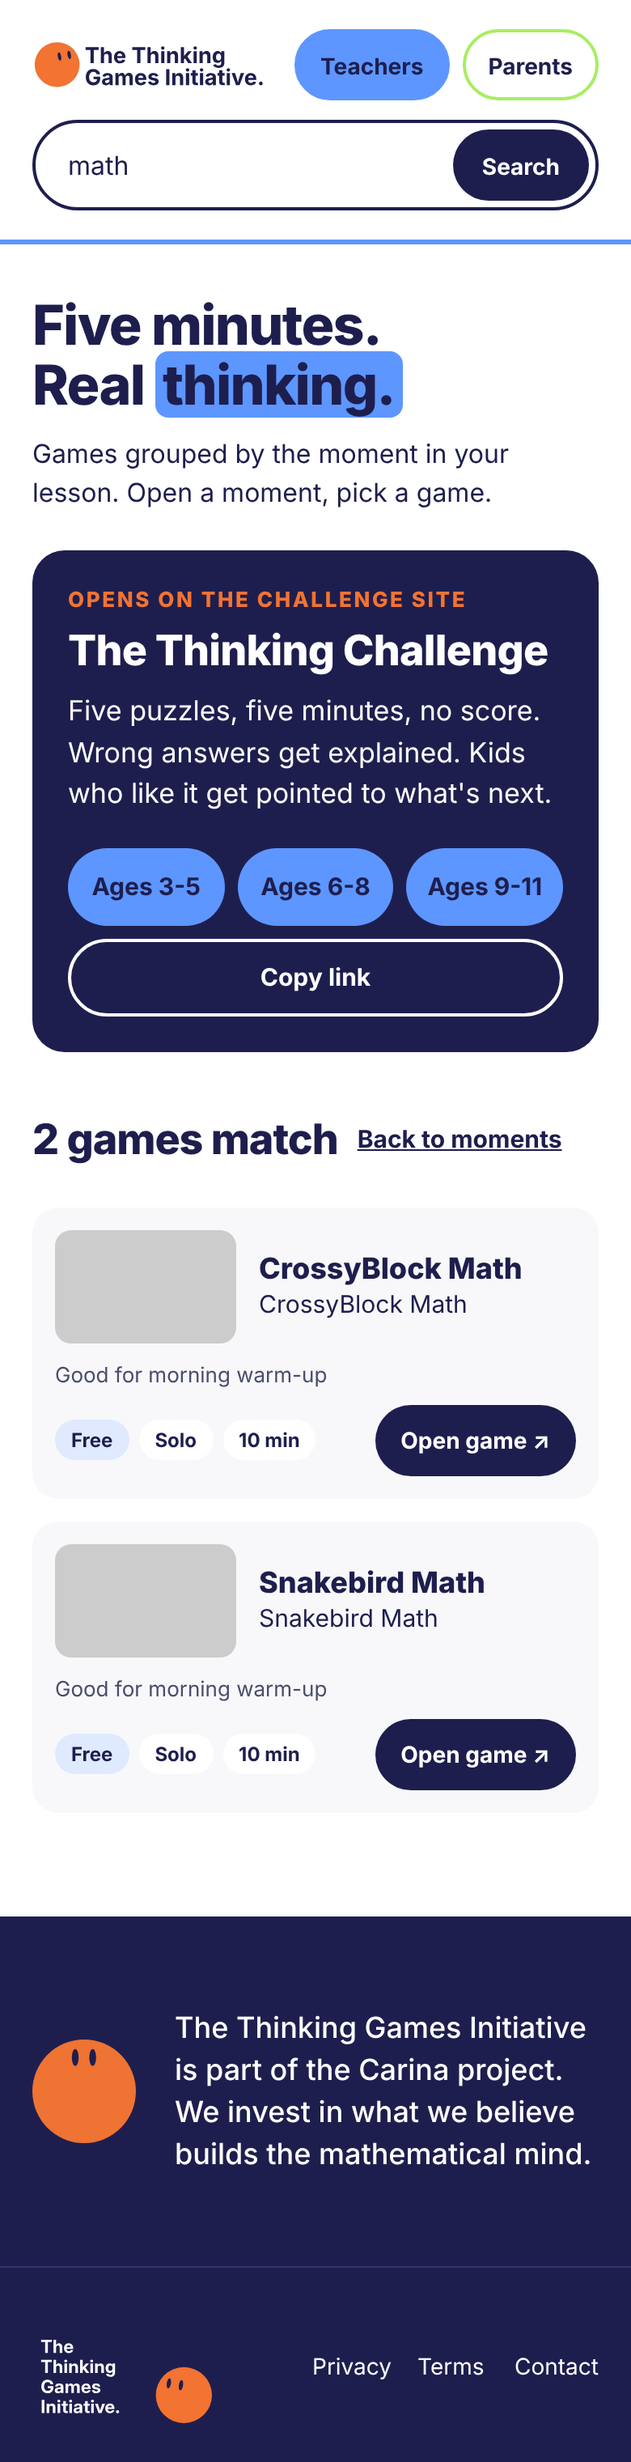
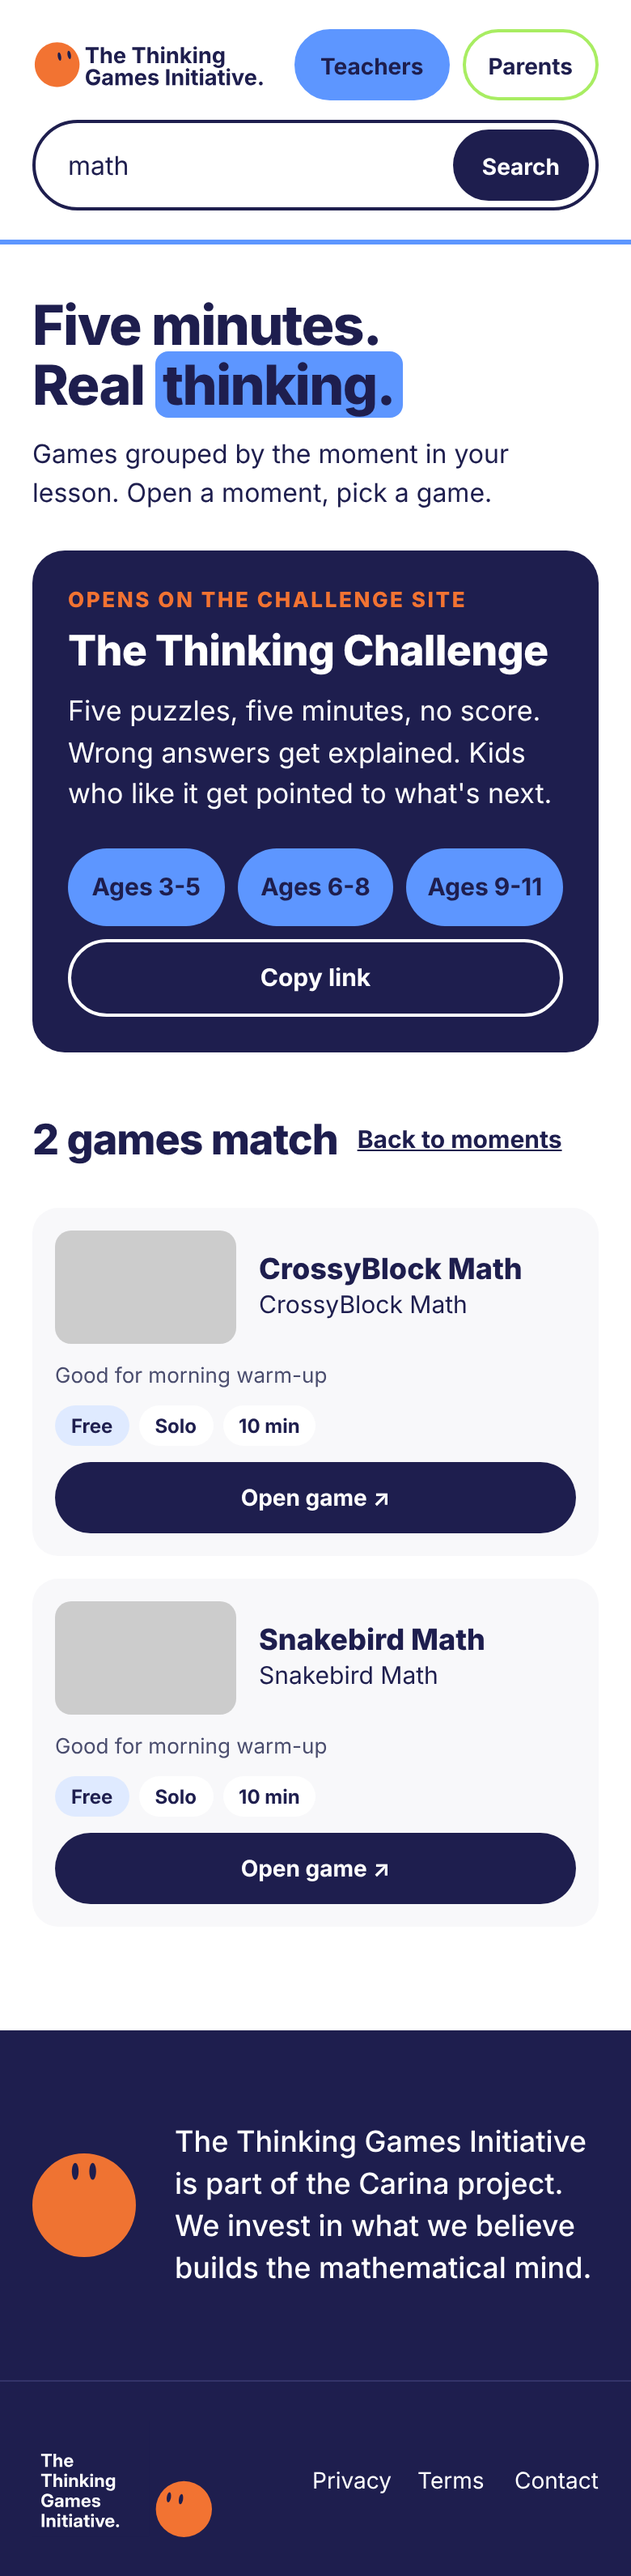
Teachers game card: wrap the footer so phones get a full-width button
The footer row wraps. The badges take a 220px basis and the button can
grow, so wide cards keep the button at the right of the badges while
narrow cards (every phone) give the badges the full width and the button
its own full-width row. No media query. Updates the 390px screenshots.

Claude-Session: https://claude.ai/code/session_01FDofUHCjwtrrP3XcqDQKED

diff --git a/app/globals.css b/app/globals.css
@@ -56,7 +56,7 @@ h1,h2,h3,p{margin:0}
 .thumb{border-radius:10px;overflow:hidden;background:repeating-linear-gradient(135deg,#e2e4ec 0 10px,#eceef4 10px 20px)}
 .thumb img{width:100%;height:100%;object-fit:cover}
 .link-btn{background:none;border:none;padding:0;font-size:14px;font-weight:700;text-decoration:underline;cursor:pointer}
-.btn-open{flex-shrink:0;display:inline-flex;align-items:center;min-height:44px;text-decoration:none;font-size:14px;font-weight:700;padding:11px 16px;border-radius:999px;background:var(--ink);color:#fff;white-space:nowrap}
+.btn-open{flex:1 0 auto;display:inline-flex;align-items:center;justify-content:center;min-height:44px;text-decoration:none;font-size:14px;font-weight:700;padding:11px 16px;border-radius:999px;background:var(--ink);color:#fff;white-space:nowrap}
 .btn-open:hover{background:var(--orange);color:var(--ink)}
 .empty{padding:40px;border-radius:16px;background:var(--soft);font-size:17px;font-weight:700;text-align:center}
 .empty.sm{padding:32px;font-size:16px}
@@ -91,8 +91,8 @@ h1,h2,h3,p{margin:0}
 .row-name{font-size:18px;font-weight:800;line-height:1.2}
 .row-tagline{font-size:15px;line-height:1.35}
 .meta{font-size:13px;line-height:1.4;color:var(--muted)}
-.row-foot{display:flex;align-items:center;gap:6px}
-.row-badges{flex:1;min-width:0;display:flex;flex-wrap:wrap;gap:6px}
+.row-foot{display:flex;flex-wrap:wrap;align-items:center;gap:10px 6px}
+.row-badges{flex:999 1 220px;min-width:0;display:flex;flex-wrap:wrap;gap:6px}
 
 /* Parents: library */
 .lib{display:flex;flex-wrap:wrap;gap:clamp(24px,3vw,40px);align-items:flex-start}

diff --git a/docs/STATUS.md b/docs/STATUS.md
@@ -23,7 +23,7 @@ Running record of what is done, what is open, and decisions made. Updated in eac
 - Task B, games backend: games now carry facts (age range, minutes, players, cost, offline, no reading, platforms, skills, feels like, when, moments, show on) and lib/derive.ts turns them into filters, badges, the "Builds" line and sort order. filterOption documents and sanity/groups.ts are gone. New skill and whenOption documents. Spreadsheet import at scripts/import-games.mts. Seed rewritten to the new model. Studio lists Games, Teacher moments, Skills, When options.
 
 - 2026-10-19: Vercel is connected and live. Production domain: https://thinkinggames-web.vercel.app/. Main deploys on every merge. The Sanity webhook points to /api/revalidate on that domain, so a publish in Studio goes live in seconds without a redeploy. **To check a deploy, fetch the production domain and look at what it serves; do not rely on GitHub commit statuses or check runs** (Vercel posts none on this repository).
-- Teachers game card, option 2d (Teachers Page v2 in Claude Design), for moment rows and search results alike: the card is a column. A top row puts the 16:10 thumbnail (clamp(112px, 28%, 132px)) beside the name and subtitle, centred; under it, full width, the "Builds …" / "Good for …" line; then a footer with the badges wrapping on the left and a solid "Open game ↗" button (ink, orange on hover, 44px tall) on the right. The rows grid now fits two cards from 420px each (was 500px). At 640px and below the button stays inline at the right of the badges instead of going full width, and the thumbnail is 112px (was 88px). Checked at 360, 390, 430 and 1280px: no horizontal scroll. Screenshots in docs/screenshots/c1-mobile/ updated. The design file in design-handoff/ was not updated in this round (no design export was attached).
+- Teachers game card, option 2d (Teachers Page v2 in Claude Design), for moment rows and search results alike: the card is a column. A top row puts the 16:10 thumbnail (clamp(112px, 28%, 132px)) beside the name and subtitle, centred; under it, full width, the "Builds …" / "Good for …" line; then a footer with the badges and a solid "Open game ↗" button (ink, orange on hover, 44px tall). The footer wraps: the badges take a 220px basis, so when the card is wide enough for both (about 350px inside the card, every desktop card) the button sits on the right of the badges; when it is narrower (every phone) the badges get the full width and the button gets its own full-width row below them. No media query is involved. The rows grid now fits two cards from 420px each (was 500px). At 640px and below the thumbnail is 112px (was 88px); the old full-width-button rule is gone, since the wrap does that job. Checked at 360, 390, 430 and 1280px: no horizontal scroll, the badges span the full card width on phones, and the button fills its row with no empty space beside it. Screenshots in docs/screenshots/c1-mobile/ updated. The design file in design-handoff/ was not updated in this round (no design export was attached).
 - The footer is pinned to the bottom of the screen on pages shorter than it (the 404 page everywhere, the home page on very tall screens). Taller pages render pixel-identical to before.
 - Every game image is 16:10. Teachers row and search thumbnails went from 4:3 (132×99) to 16:10 (132×82.5 on desktop, 88×55 at 640px and below), and request a 264×165 crop from Sanity, the same 16:10 crop as the 800×500 Parents cards. The image field asks editors for 1600×1000.
 - 404 page now renders the site footer (app/not-found.tsx sits outside the (site) layout, so it fetches the site settings itself). It still returns HTTP 404.
@@ -84,7 +84,7 @@ Not drift: game order, game counts per moment, tag sets and thumbnails differ be
 
 - Below 390px the 28px mascot logo (144px wide) and the two pills (188px) cannot share one row inside the 20px page gutters; at 360px only 320px is available. Below 390px the header gap tightens to 8px and the mascot logo shrinks to 24px tall. The home wordmark still fits at 28px. At 390px and up every header value is as specified.
 - The 34px hero applies to the Teachers, Parents and 404 heroes. The home hero keeps its own size (42px at 390px), since the Home section of the spec only lists the doors.
-- "Open game" spanned the full width of the row's text column, under the badges. Replaced by the option 2d card: the button now sits inline at the right of the badge row on every screen size.
+- "Open game" spanned the full width of the row's text column, under the badges. Replaced by the option 2d card: the button sits at the right of the badges on wide cards and on its own full-width row below them on narrow cards, through flex-wrap rather than a media query.
 - In the filter panel, "Clear all" shows once a filter or search is active, as on desktop.
 - Two focus rings were clipped by their container's overflow on every screen size (the in-moment filter options and the moment headers). They are now drawn inside the element; this changes nothing until an element has keyboard focus.
 
